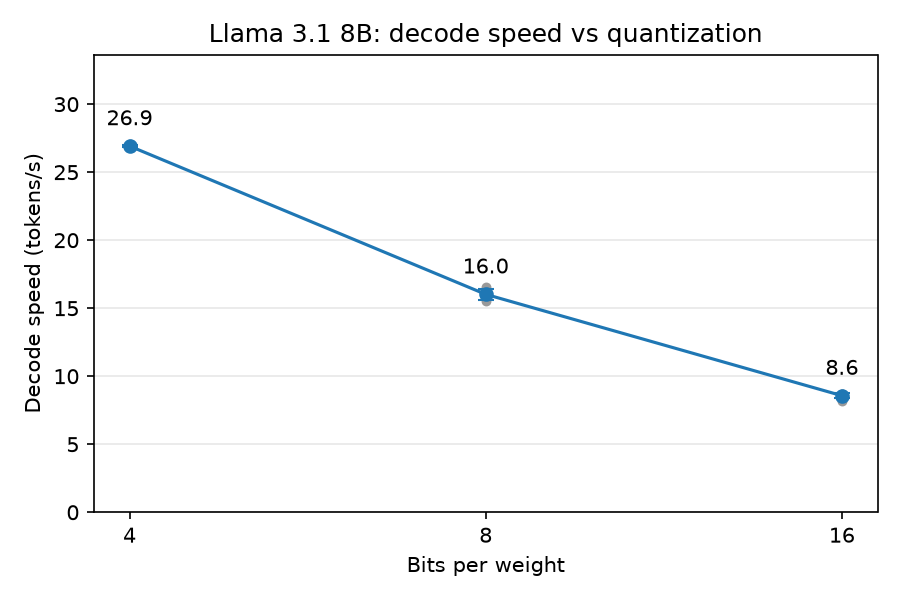
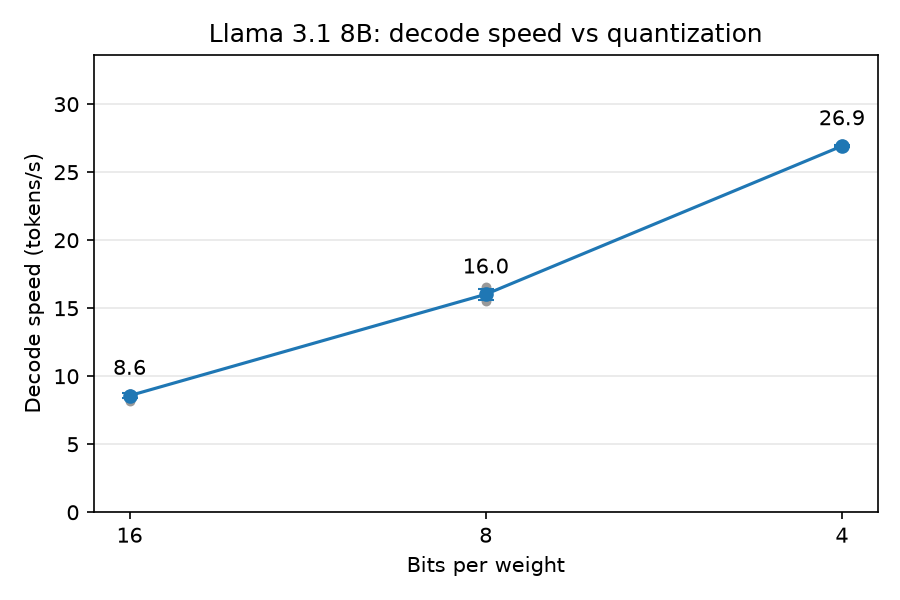
Flip the x axis of the decode speed plot
Show 16 bits on the left and 4 bits on the right.
Redraw decode_tps_vs_bits.png from the saved CSVs.

diff --git a/results/Experiments/quantization_decode_tps/run_experiment.py b/results/Experiments/quantization_decode_tps/run_experiment.py
@@ -1,4 +1,4 @@
-# Last edited: 2026-10-16 07:45
+# Last edited: 2026-10-16 08:45
 """Measure how quantization changes decode speed (tokens per second) for Llama 3.1 8B.
 
 For each model (16-bit, 8-bit, 4-bit): load it once, run 7 trials on the birthday prompt,
@@ -113,6 +113,7 @@ def plot(trial_rows: list[dict], summary: list[dict]) -> None:
     ax.set_xscale("log", base=2)  # 4, 8, 16 are evenly spaced on a log2 axis
     ax.set_xticks(bits, [str(b) for b in bits])
     ax.minorticks_off()
+    ax.invert_xaxis()  # 16 on the left, 4 on the right
     ax.set_xlabel("Bits per weight")
     ax.set_ylabel("Decode speed (tokens/s)")
     ax.set_title("Llama 3.1 8B: decode speed vs quantization")
